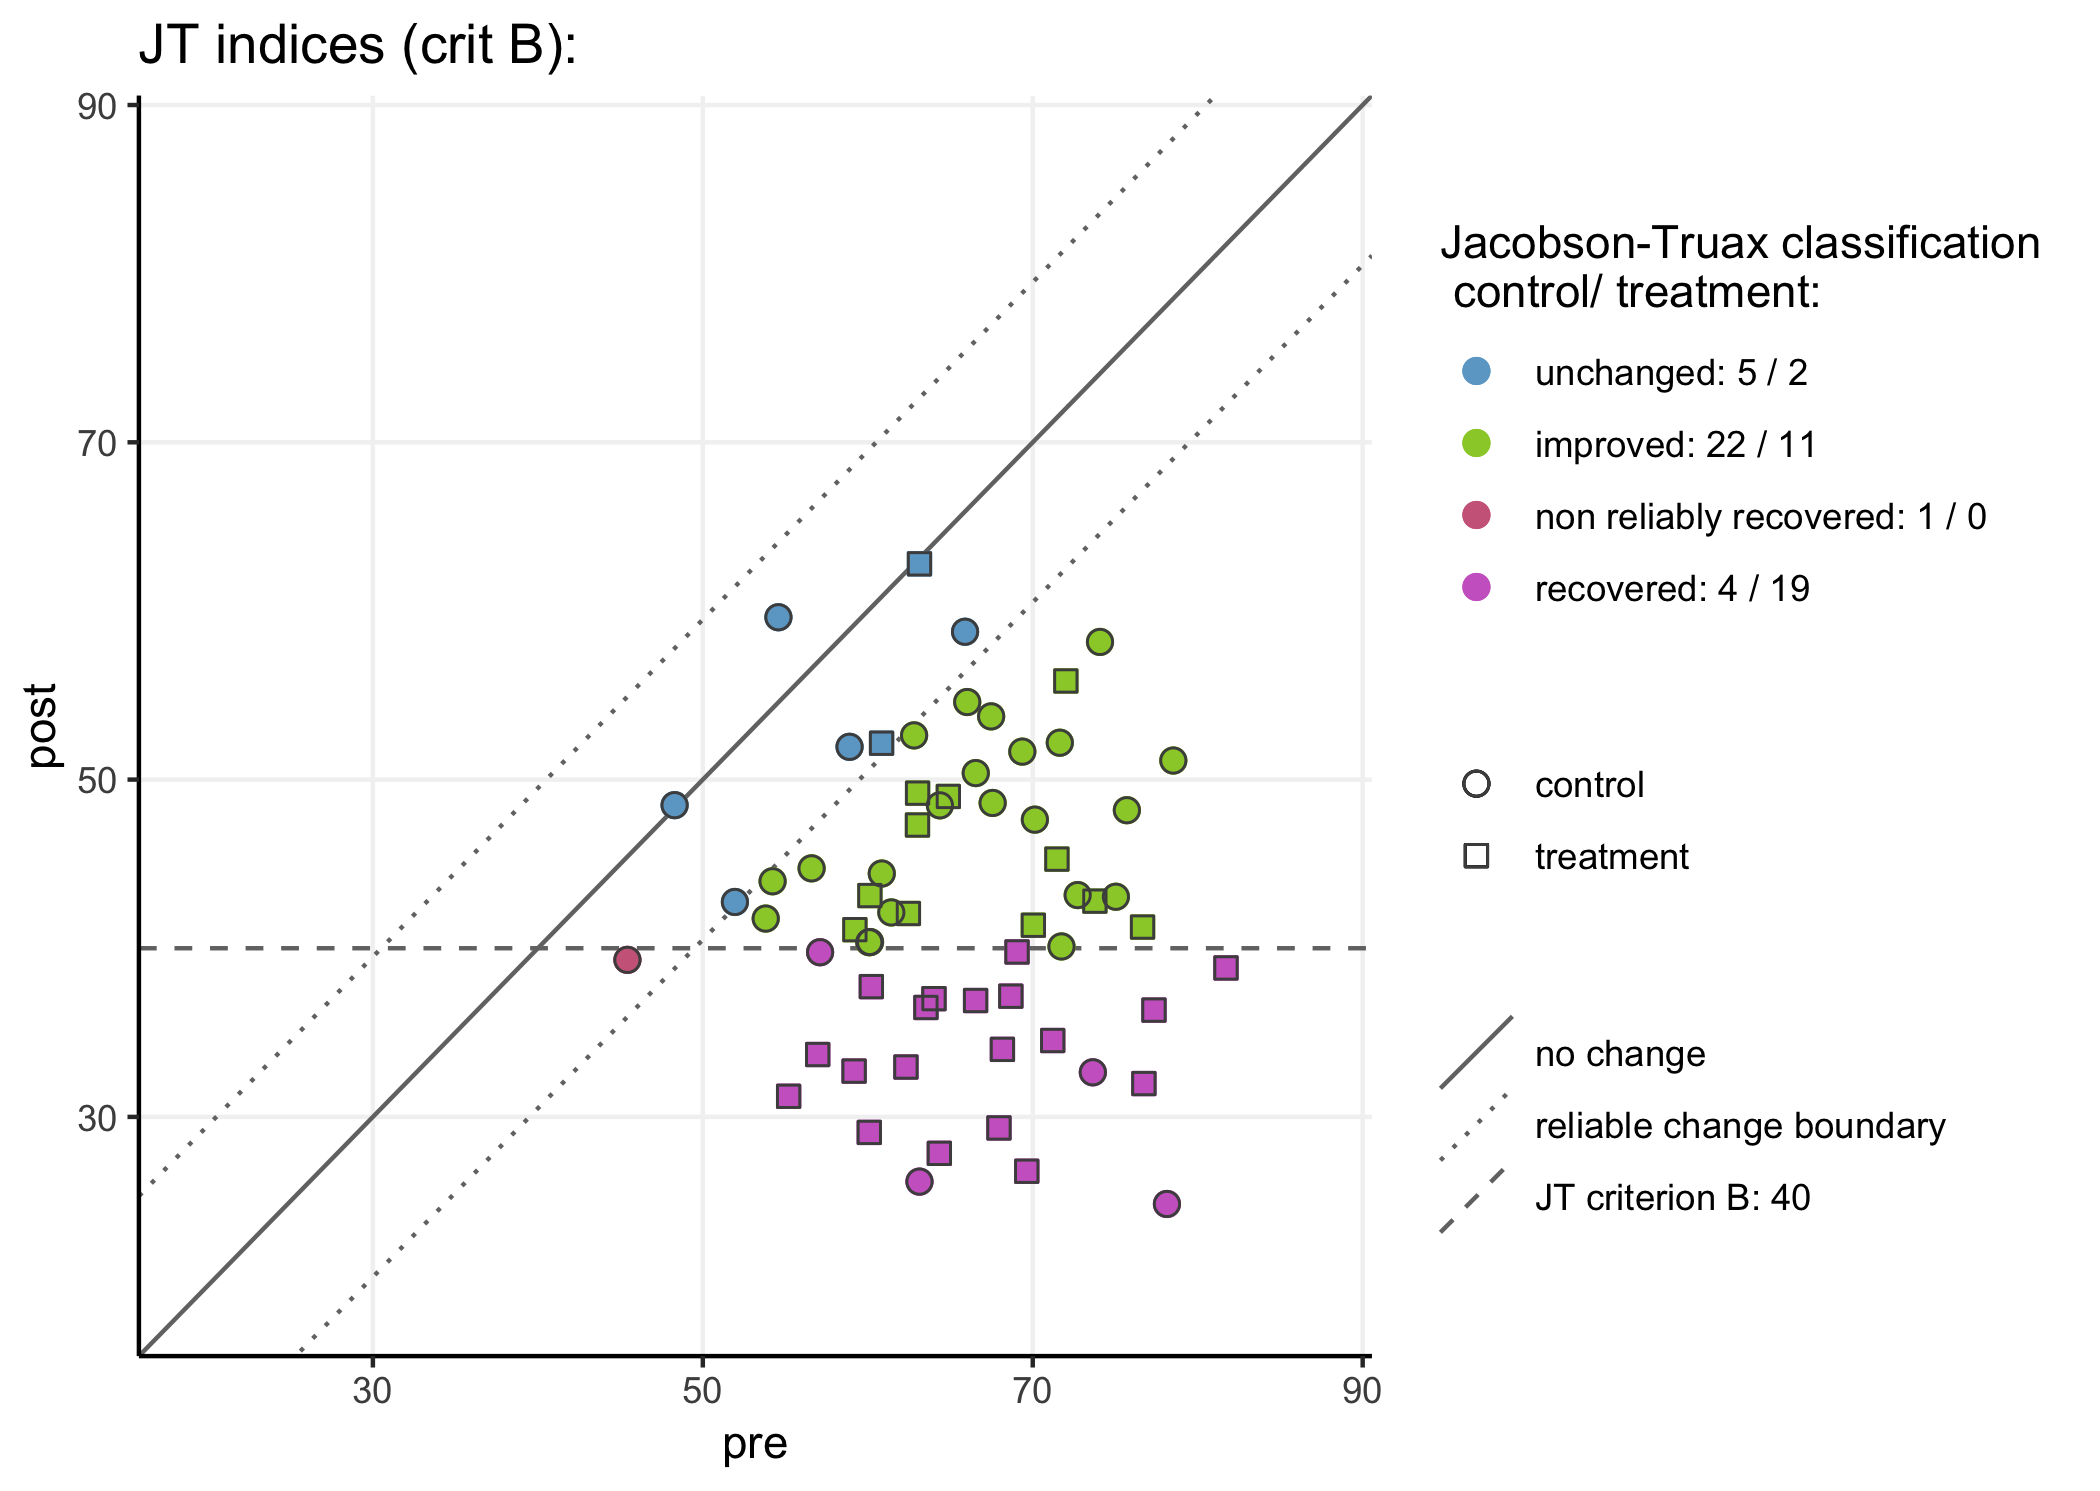
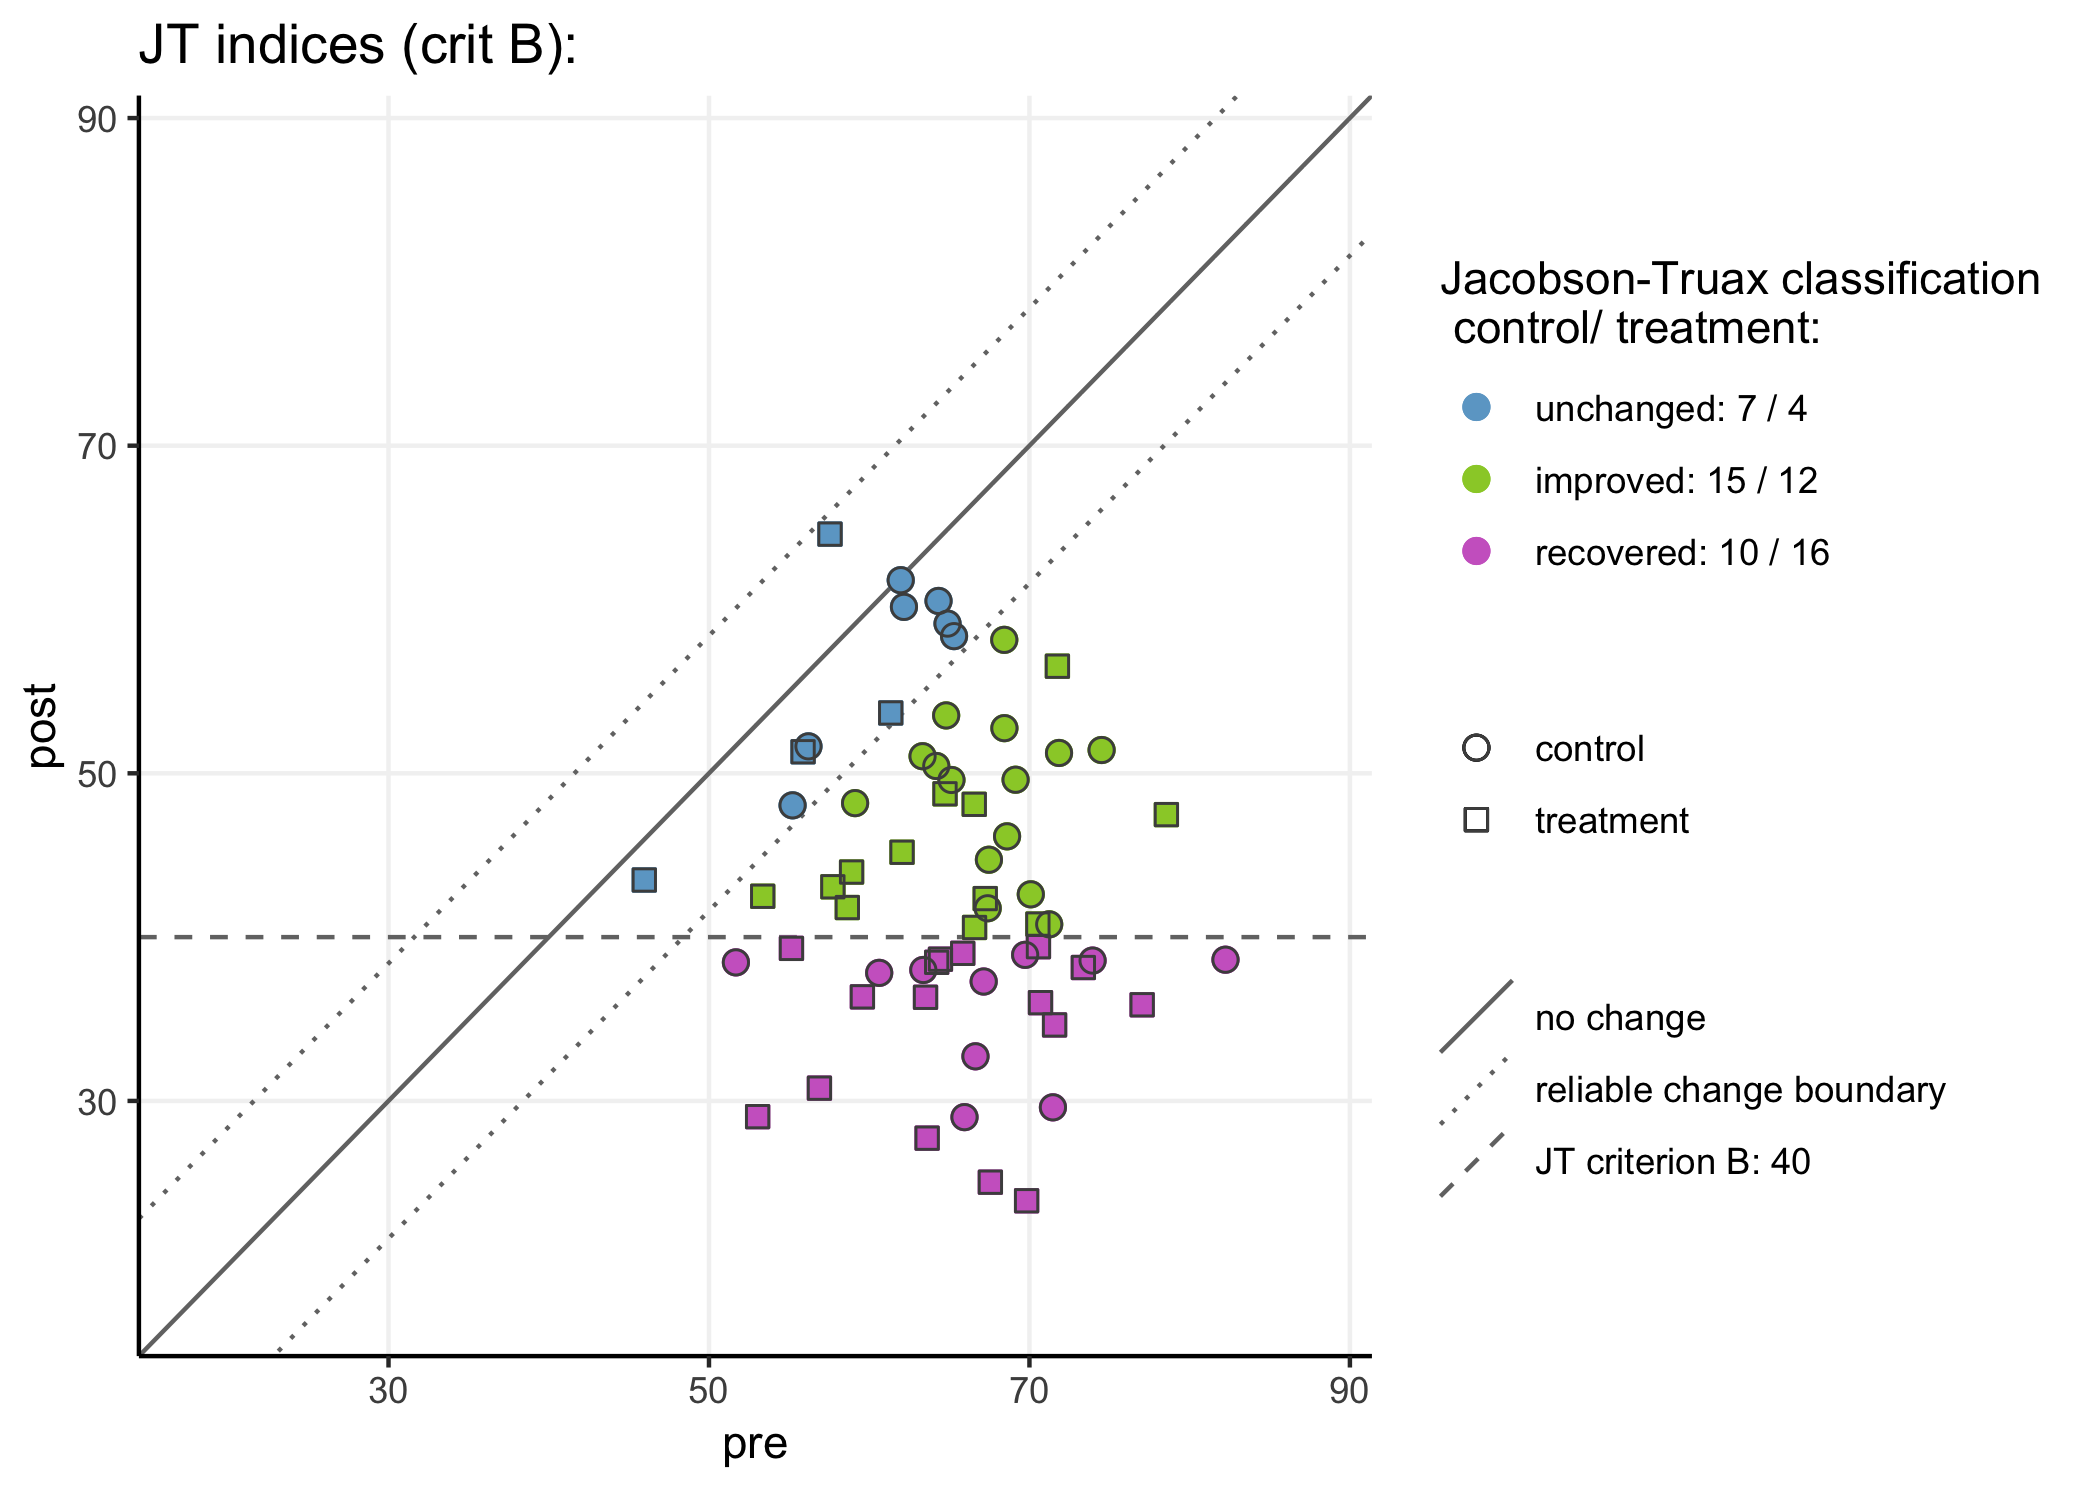
some more readme edits

diff --git a/README.md b/README.md
@@ -120,18 +120,18 @@ JTRCI(data = df,
     ## NB: using the sample baseline distribution to characterize the dysfunctional population. 
     ##     to change: provide norms for dysfunctional population using 'dysfM =' and 'dysfSD ='
 
-    ## Jacobson-Truax criterion A: 50
+    ## Jacobson-Truax criterion A: 51.5
 
     ##  this value represents two sd from the baseline total sample mean
 
-    ## 2 participants scored below the Jacobson-Truax cut-off score at the pre-measurement 
+    ## 1 participants scored below the Jacobson-Truax cut-off score at the pre-measurement 
     ##  interpret their Jacobson-Truax classification with caution
 
     ##    Jacobson Truax classification  N
-    ## 1:                     unchanged  5
-    ## 2:                      improved  9
+    ## 1:                     unchanged  8
+    ## 2:                      improved  5
     ## 3:        non reliably recovered  3
-    ## 4:                     recovered 47
+    ## 4:                     recovered 48
 
 <img src="README_files/figure-gfm/unnamed-chunk-8-1.png" height="450px" />
 
@@ -162,8 +162,11 @@ Parameters for the plot\_JT()/plot\_RCI() functions can also be passed
 directly in the JTRCI() function:
 
 ``` r
-# obtain and plot Jacobson-Truax indices using criterion B. 
+# obtain and plot Jacobson-Truax indices using criterion B 
+# Crit B requires functional/healthy norm data passed as 'normM =' and 'normSD='. 
+# set 'useGroups = T' to show group membership in the plot - JTplot() can handle up to 5 groups
 # add jittering of the points with addJitter = T
+# pass a custom plottitle with parameter 'plottitle = '
 
 JTRCI(data = df, pre = "pre", post = "post",  group = "group", ppid = "ppid",
       reliability = .8, indextype = "JT", JTcrit = "B",
@@ -184,16 +187,19 @@ JTRCI(data = df, pre = "pre", post = "post",  group = "group", ppid = "ppid",
     ##  this value represents two sd from the functional/healthy population norm mean
 
     ##    Jacobson Truax classification  N
-    ## 1:                     unchanged  7
-    ## 2:                      improved 33
-    ## 3:        non reliably recovered  1
-    ## 4:                     recovered 23
+    ## 1:                     unchanged 11
+    ## 2:                      improved 27
+    ## 3:                     recovered 26
 
 <img src="README_files/figure-gfm/unnamed-chunk-11-1.png" height="450px" />
 
+Plot groups in separate facets:
+
 ``` r
-# obtain Jacobson-Truax indices using criterion C.
-# plot with parameter facetplot = T - the plot function can handle up to 5 groups
+# obtain Jacobson-Truax indices using criterion C
+# Crit C requires both 'functional' and 'dysfunctional' norm data: 
+# these are passed as 'normM =', 'normSD=', 'dysfM =' and 'dysfSD ='. 
+# plot with parameter facetplot = T 
 
 JTRCI(data = df, pre = "pre", post = "post",  group = "group", ppid = "ppid",
       reliability = .8, indextype = "JT", JTcrit = "C",
@@ -204,40 +210,42 @@ JTRCI(data = df, pre = "pre", post = "post",  group = "group", ppid = "ppid",
     ## Assumed that lower scores are better (and reduction == improvement),
     ##  if that is incorrect: set higherIsBetter = T
 
-    ## Jacobson-Truax criterion C:44
+    ## Jacobson-Truax criterion C:44.9
 
     ##  this value represents the weighted midpoint between the dysfunctional and functional norm mean, 
     ##  i.e. the value at which an individual is equally likely to belong to the functional as to the dysfunctional population
 
     ##    Jacobson Truax classification  N
-    ## 1:                     unchanged  6
-    ## 2:                      improved 20
-    ## 3:        non reliably recovered  2
+    ## 1:                     unchanged 10
+    ## 2:                      improved 17
+    ## 3:        non reliably recovered  1
     ## 4:                     recovered 36
 
 <img src="README_files/figure-gfm/unnamed-chunk-12-1.png" height="450px" />
 
 It is important to note that when assessing/plotting Jacobson-Truax
-indices for multiple groups, the function combines the groups into one
-group for the calculations of the RCI (when using baseline
-characteristics as the ’dysfunctional distribution), or uses one single
-set of inputs dysfM and dysfSD as characteristic of the dysfunctional
-population. I.e. it assumes that the participants all originate from the
-same (sub)population and were randomly assigned to the different
-groups/conditions.
+indices for multiple groups, the function treats the groups as one group
+for the calculation of the RCI (when using baseline characteristics as
+the ’dysfunctional distribution), or uses one single set of inputs dysfM
+and dysfSD as characteristic of the dysfunctional population. I.e. it
+assumes that all participants originate from the same (sub)population
+and were randomly assigned to the different groups/conditions.
 
-Generally speaking (regardless of whether there are multiple
-conditions), Jacobson-Truax indices are designed for use with
-participants selected so that they would be expected to score high (or
-low in case of a higher-is-better measure) on the measure assessed. For
-a control group in which most/all participants score already within the
-‘functional’ (norm) range the traditional Jacobson-Truax
-classification labels make little sense: i.e. someone who scored in the
-healthy range at both the pre- and the post-assessment would be
-classified as ‘recovered’ without an actual recovering happening. The
-more ‘simple’ reliable change indices can be used for comparison of
-groups preselected to (likely) differ at baseline on the measure
-assessed.
+Generally speaking (regardless of number of groups), Jacobson-Truax
+indices are designed for use with participants selected so that they
+would be expected to score high (or low in case of a higher-is-better
+measure) on the measure assessed. For a control group in which most/all
+participants score already within the ‘functional’ (norm) range the
+traditional Jacobson-Truax classification labels make little sense:
+i.e. someone who scored in the healthy range at both the pre- and the
+post-assessment would be classified as ‘recovered’ without an actual
+recovering happening. The JTRCI() function will issue a message if any
+participant scored below the JT criterion at baseline.
+
+If such cases occur and are problmeatic, the more ‘simple’ reliable
+change indices can be used (set parameter ‘indextype = “RCI”’). Reliable
+change indices can also be used for comparison of groups preselected to
+(likely) differ at baseline on the measure assessed.
 
 I’ve also taken the liberty of adding a new label to the Jacobson-Truax
 classification to indicate a sequence of events seen in the data that
